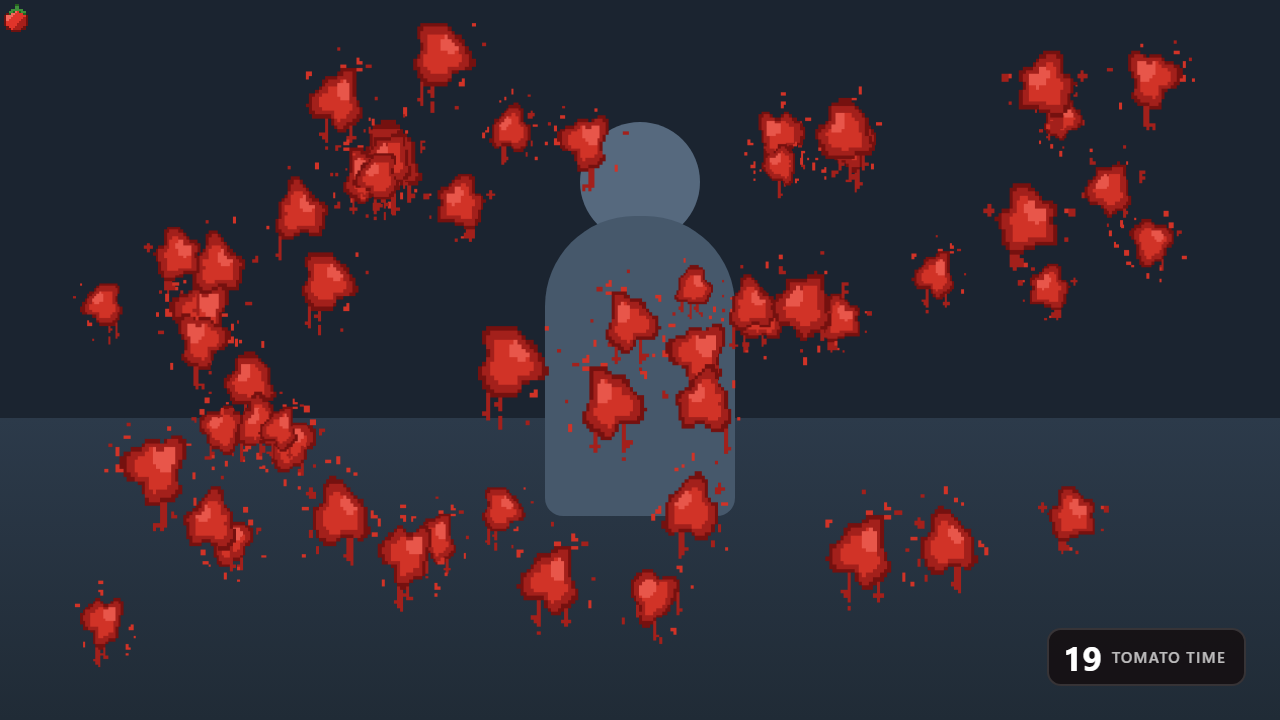
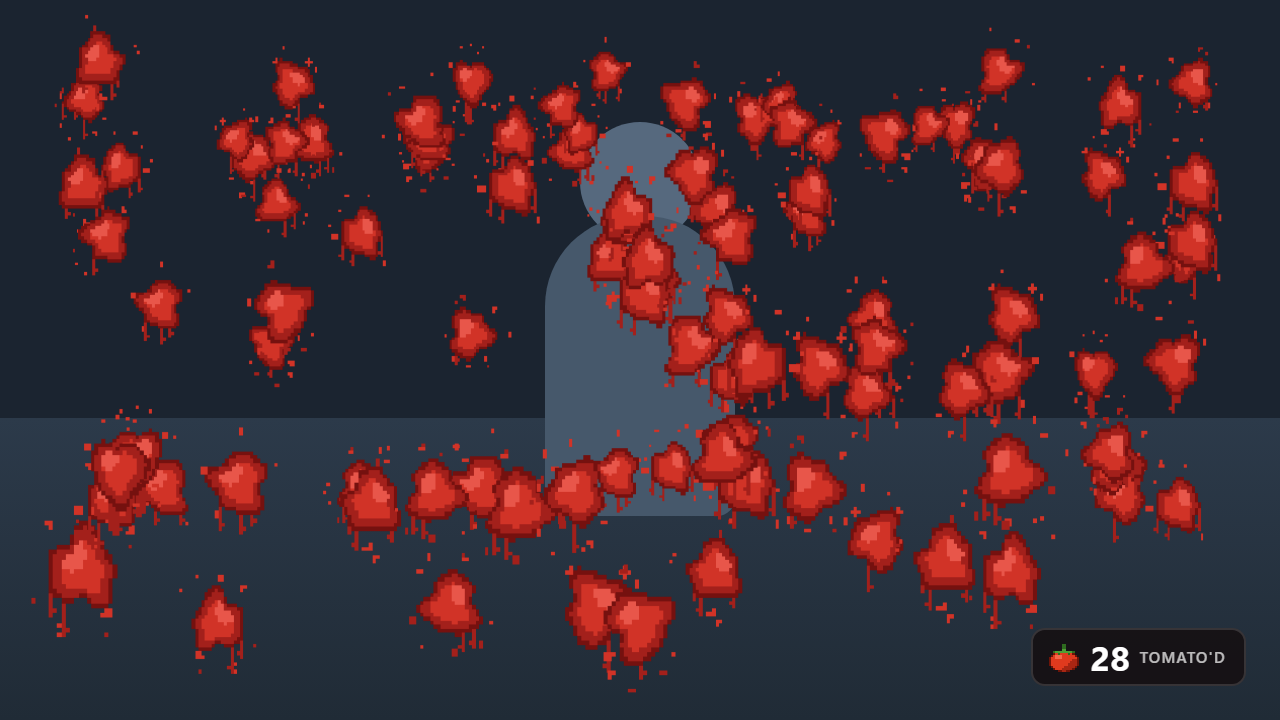
Rename the overlay to Tomato'd
"Tomato Time" named the prop but not the act. Tomato'd says what is being
done to you -- getting tomatoed is already an idiom for public rejection,
which is the displeasure the bit is about.

Displayed as Tomato'd everywhere a person reads it. The repo and URL use
the apostrophe-free slug "tomatod", since apostrophes get percent-encoded
and mangled into smart quotes in addresses.

The command stays !tomato. !boo was considered and dropped: alongside
tomatoes and splatter it reads as the ghost kind of boo about half the
time.

diff --git a/index.html b/index.html
@@ -3,7 +3,7 @@
 <head>
 <meta charset="utf-8">
 <meta name="viewport" content="width=device-width, initial-scale=1">
-<title>Tomato Time — set up your overlay</title>
+<title>Tomato'd — set up your overlay</title>
 <style>
   :root {
     --bg: #14100f;
@@ -171,7 +171,7 @@
 
   <header>
     <canvas id="logo" width="16" height="16"></canvas>
-    <h1>Tomato Time</h1>
+    <h1>Tomato'd</h1>
   </header>
   <p class="tagline">
     Let your chat throw tomatoes at you. No download, no login, no account to connect.
@@ -217,7 +217,7 @@
     <h2>4 · Add it to OBS</h2>
     <ol>
       <li>In OBS, under <strong>Sources</strong>, click <kbd>+</kbd> and choose <strong>Browser</strong>.</li>
-      <li>Give it a name (<em>Tomato Time</em>) and click <strong>OK</strong>.</li>
+      <li>Give it a name (<em>Tomato'd</em>) and click <strong>OK</strong>.</li>
       <li>Paste your link into the <strong>URL</strong> box.</li>
       <li>Set <strong>Width</strong> to <kbd>1920</kbd> and <strong>Height</strong> to <kbd>1080</kbd>.</li>
       <li>Click <strong>OK</strong>. Drag the layer to the top of your source list so tomatoes land in front of everything.</li>
@@ -238,7 +238,7 @@
       <div class="timer" id="pTimer">
         <canvas class="timer-icon" id="pIcon" width="16" height="16"></canvas>
         <span class="timer-value">30</span>
-        <span class="timer-label">Tomato&nbsp;Time</span>
+        <span class="timer-label">Tomato'd</span>
       </div>
       <div class="hint" id="pHint">Press a button below</div>
     </div>

diff --git a/overlay.html b/overlay.html
@@ -2,7 +2,7 @@
 <html lang="en">
 <head>
 <meta charset="utf-8">
-<title>Tomato Time — overlay</title>
+<title>Tomato'd — overlay</title>
 <style>
   html, body {
     margin: 0;
@@ -99,7 +99,7 @@
   <div class="timer" id="timer">
     <canvas class="timer-icon" id="timerIcon" width="16" height="16"></canvas>
     <span class="timer-value">30</span>
-    <span class="timer-label">Tomato&nbsp;Time</span>
+    <span class="timer-label">Tomato'd</span>
   </div>
 
   <div class="status" id="status" hidden></div>

diff --git a/serve.js b/serve.js
@@ -46,6 +46,6 @@ http
     });
   })
   .listen(PORT, () => {
-    console.log(`Tomato Time dev server: http://localhost:${PORT}`);
+    console.log(`Tomato'd dev server: http://localhost:${PORT}`);
     console.log(`Overlay: http://localhost:${PORT}/overlay.html?channel=tenzinniznet&debug=on`);
   });

diff --git a/README.md b/README.md
@@ -1,4 +1,4 @@
-# Tomato Time
+# Tomato'd
 
 Let Twitch chat throw tomatoes at you, live on stream.
 
@@ -22,7 +22,7 @@ No download, no login, no account to connect, nothing to install.
 Get your link from the setup page, or use it directly:
 
 ```
-https://abdullahmorrison.github.io/tomato-time/overlay.html?channel=YOUR_CHANNEL
+https://abdullahmorrison.github.io/tomatod/overlay.html?channel=YOUR_CHANNEL
 ```
 
 Only mods and the broadcaster can start a round — regular chatters can't.
